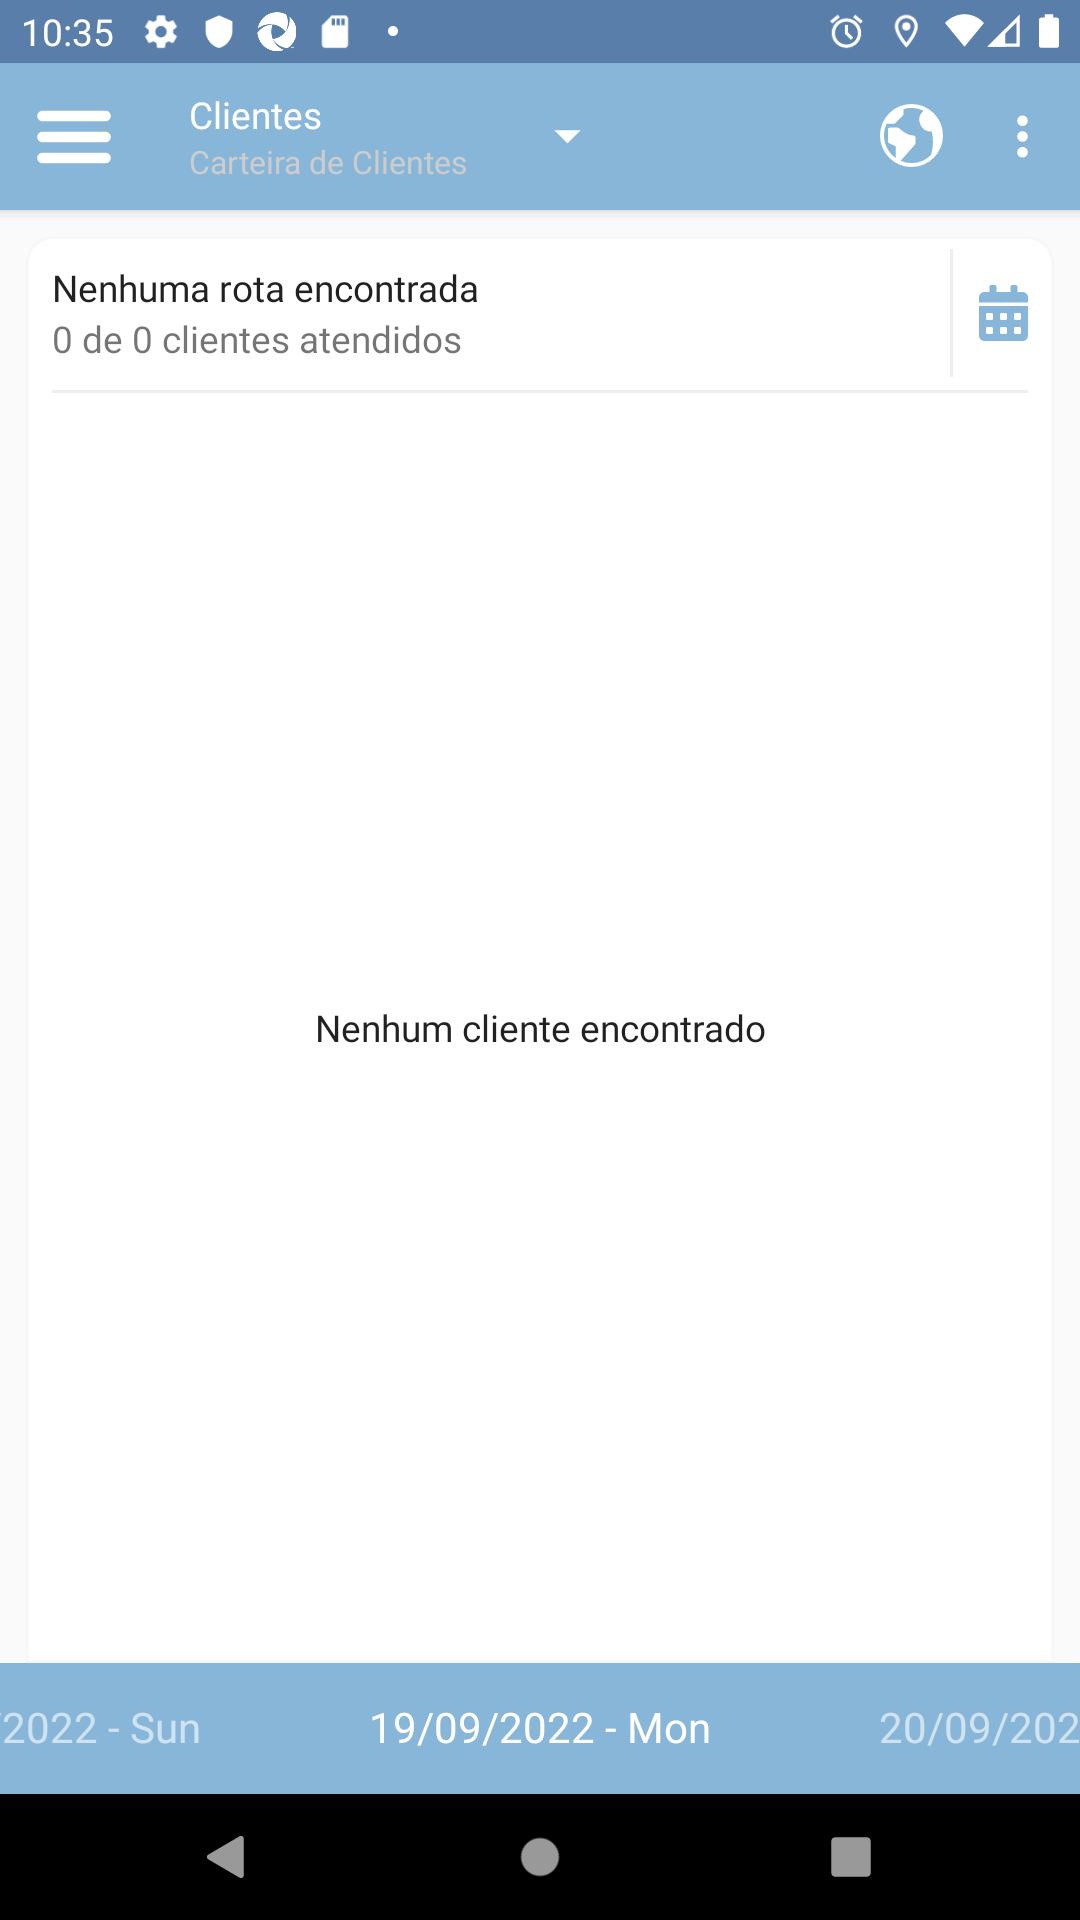
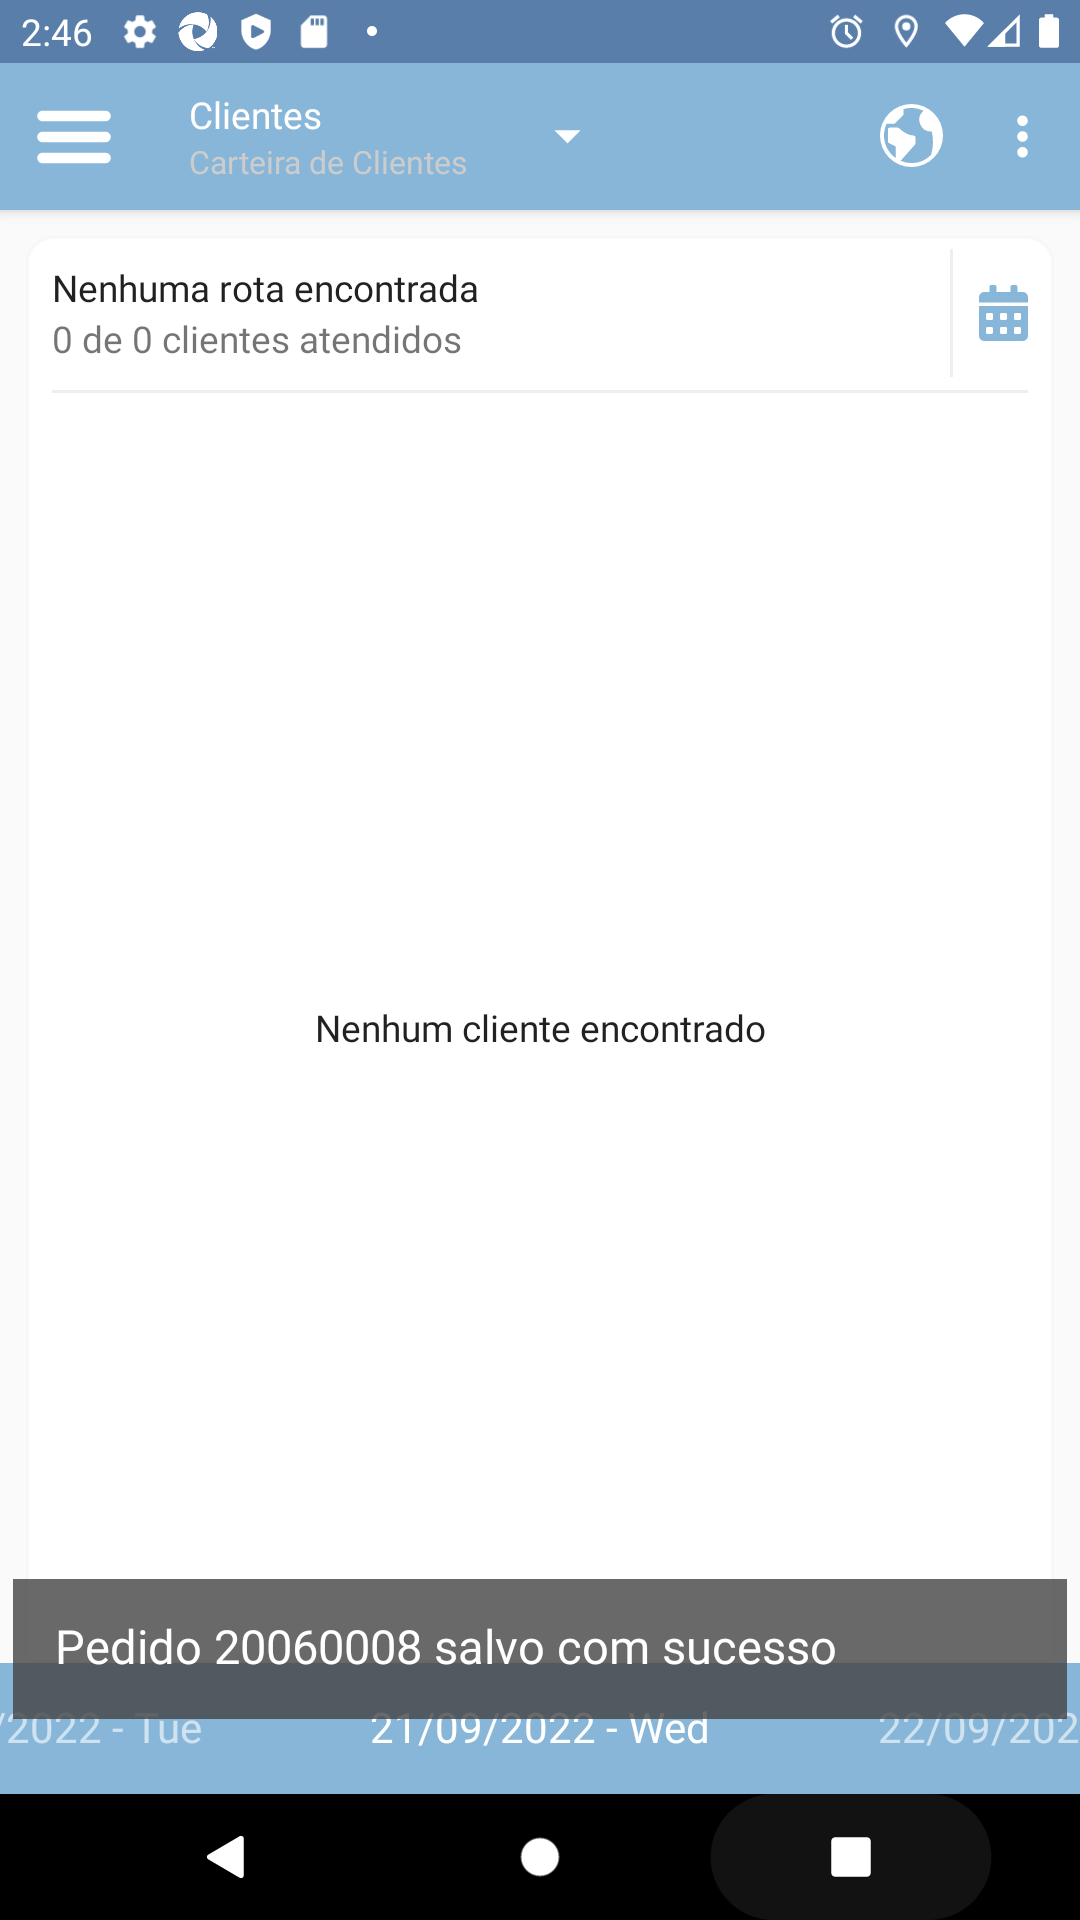
Ajustes no pedido

diff --git a/logs/log.html b/logs/log.html
@@ -1803,25 +1803,25 @@ function stopPropagation(event) {
 window.output = {};
 </script>
 <script type="text/javascript">
-window.output["suite"] = [1,2,3,0,[],[0,0,120248],[],[[4,0,0,[],[0,668,119574,5],[[1,6,7,0,0,0,0,0,[1,671,22410],[[0,8,9,0,10,11,0,0,[1,672,22409],[]]]],[0,12,13,0,0,0,0,0,[1,23131,11065],[[0,14,9,0,15,16,0,0,[1,23132,4183],[]],[0,17,9,0,18,19,0,0,[1,27315,2886],[]],[0,20,9,0,21,22,0,0,[1,30201,2018],[[30209,2,23]]],[0,14,9,0,15,16,0,0,[1,32220,569],[]],[0,14,9,0,15,16,0,0,[1,32790,1406],[]]]],[0,24,13,0,0,0,0,0,[1,34199,32459],[[0,25,9,0,26,27,0,0,[1,34200,10171],[]],[0,28,9,0,29,30,0,0,[1,44372,209],[[44378,2,31]]],[0,32,9,0,33,34,0,0,[1,44582,2601],[]],[0,28,9,0,29,35,0,0,[1,47183,1132],[[47190,2,36]]],[0,25,9,0,26,37,0,0,[1,48315,1285],[]],[0,28,9,0,29,37,0,0,[1,49600,892],[[49607,2,38]]],[0,25,9,0,26,39,0,0,[1,50492,1867],[]],[0,40,9,0,41,42,0,0,[1,52359,3031],[]],[0,32,9,0,33,43,0,0,[1,55390,345],[]],[0,25,9,0,26,44,0,0,[1,55735,10922],[]]]],[0,32,9,0,33,45,0,0,[1,66660,701],[]],[0,17,9,0,18,46,0,0,[1,67368,1242],[]],[0,28,9,0,29,46,0,0,[1,68613,1718],[[68620,2,47]]],[0,32,9,0,33,48,0,0,[1,70334,429],[]],[0,17,9,0,18,49,0,0,[1,70766,1063],[]],[0,28,9,0,29,49,0,0,[1,71839,1731],[[71846,2,50]]],[0,51,9,0,52,53,0,0,[1,73572,1761],[]],[0,17,9,0,18,54,0,0,[1,75341,300],[]],[0,28,9,0,29,55,0,0,[1,75647,399],[[75653,2,56]]],[0,17,9,0,18,57,0,0,[1,76074,3340],[]],[0,28,9,0,29,57,0,0,[1,79415,308],[[79421,2,58]]],[0,17,9,0,18,59,0,0,[1,79724,1100],[]],[0,28,9,0,29,59,0,0,[1,80825,1721],[[80831,2,60]]],[0,17,9,0,18,61,0,0,[1,82547,347],[]],[0,28,9,0,29,61,0,0,[1,82896,726],[[82902,2,62]]],[0,28,9,0,29,63,0,0,[1,83623,708],[[83629,2,64]]],[0,17,9,0,18,65,0,0,[1,84334,2771],[]],[0,28,9,0,29,65,0,0,[1,87106,382],[[87112,2,66]]],[0,17,9,0,18,67,0,0,[1,87489,6466],[]],[0,20,9,0,21,68,0,0,[1,93955,747],[[93963,2,69]]],[0,28,9,0,29,63,0,0,[1,94703,684],[[94709,2,64]]],[0,17,9,0,18,70,0,0,[1,95390,4972],[]],[0,28,9,0,29,71,0,0,[1,100364,524],[[100370,2,72]]],[0,17,9,0,18,73,0,0,[1,100889,933],[]],[0,28,9,0,29,73,0,0,[1,101824,498],[[101829,2,74]]],[0,17,9,0,18,75,0,0,[1,102323,883],[]],[0,28,9,0,29,75,0,0,[1,103208,829],[[103214,2,76]]],[0,17,9,0,18,77,0,0,[1,104038,178],[]],[0,28,9,0,29,77,0,0,[1,104217,254],[[104222,2,78]]],[0,17,9,0,18,79,0,0,[1,104472,1860],[]],[0,28,9,0,29,80,0,0,[1,106334,256],[[106341,2,81]]],[0,82,9,0,83,84,0,0,[0,106593,11662],[[117579,2,85],[0,86,9,0,87,0,0,0,[1,117580,673],[[118252,2,88]]],[118254,5,5]]],[2,89,7,0,0,0,0,0,[1,118257,1981],[[0,86,9,0,87,0,0,0,[1,118258,583],[[118840,2,90]]],[0,91,9,0,92,0,0,0,[1,118841,1396],[]]]]]]],[],[1,0,1,0]];
+window.output["suite"] = [1,2,3,0,[],[1,0,84919],[],[[4,0,0,[],[1,413,84485],[[1,5,6,0,0,0,0,0,[1,414,16516],[[0,7,8,0,9,10,0,0,[1,415,16515],[]]]],[0,11,12,0,0,0,0,0,[1,16932,8479],[[0,13,8,0,14,15,0,0,[1,16932,186],[]],[0,16,8,0,17,18,0,0,[1,17118,5522],[]],[0,19,8,0,20,21,0,0,[1,22641,1077],[[22649,2,22]]],[0,13,8,0,14,15,0,0,[1,23719,579],[]],[0,13,8,0,14,15,0,0,[1,24299,1112],[]]]],[0,23,12,0,0,0,0,0,[1,25413,21278],[[0,24,8,0,25,26,0,0,[1,25414,5702],[]],[0,27,8,0,28,29,0,0,[1,31116,1124],[[31123,2,30]]],[0,31,8,0,32,33,0,0,[1,32241,1231],[]],[0,27,8,0,28,34,0,0,[1,33472,1046],[[33479,2,35]]],[0,24,8,0,25,36,0,0,[1,34519,1159],[]],[0,27,8,0,28,36,0,0,[1,35678,1869],[[35685,2,37]]],[0,24,8,0,25,38,0,0,[1,37547,82],[]],[0,39,8,0,40,41,0,0,[1,37629,2850],[]],[0,31,8,0,32,42,0,0,[1,40480,235],[]],[0,24,8,0,25,43,0,0,[1,40715,5976],[]]]],[0,31,8,0,32,44,0,0,[1,46692,299],[]],[0,16,8,0,17,45,0,0,[1,46994,929],[]],[0,27,8,0,28,45,0,0,[1,47924,1347],[[47930,2,46]]],[0,31,8,0,32,47,0,0,[1,49272,293],[]],[0,16,8,0,17,48,0,0,[1,49569,928],[]],[0,27,8,0,28,48,0,0,[1,50498,1284],[[50502,2,49]]],[0,50,8,0,51,52,0,0,[1,51783,1619],[]],[0,16,8,0,17,53,0,0,[1,53403,217],[]],[0,27,8,0,28,54,0,0,[1,53626,724],[[53634,2,55]]],[0,16,8,0,17,56,0,0,[1,54352,2057],[]],[0,27,8,0,28,56,0,0,[1,56410,500],[[56417,2,57]]],[0,16,8,0,17,58,0,0,[1,56917,921],[]],[0,27,8,0,28,58,0,0,[1,57839,1654],[[57846,2,59]]],[0,16,8,0,17,60,0,0,[1,59494,299],[]],[0,27,8,0,28,60,0,0,[1,59794,667],[[59799,2,61]]],[0,27,8,0,28,62,0,0,[1,60469,799],[[60476,2,63]]],[0,16,8,0,17,64,0,0,[1,61273,1564],[]],[0,27,8,0,28,64,0,0,[1,62838,727],[[62846,2,65]]],[0,16,8,0,17,66,0,0,[1,63566,5287],[]],[0,19,8,0,20,67,0,0,[1,68855,206],[[68861,2,68]]],[0,27,8,0,28,62,0,0,[1,69065,585],[[69071,2,63]]],[0,16,8,0,17,69,0,0,[1,69652,3823],[]],[0,27,8,0,28,70,0,0,[1,73480,626],[[73487,2,71]]],[0,16,8,0,17,72,0,0,[1,74108,815],[]],[0,27,8,0,28,72,0,0,[1,74924,466],[[74929,2,73]]],[0,16,8,0,17,74,0,0,[1,75392,774],[]],[0,27,8,0,28,74,0,0,[1,76168,856],[[76175,2,75]]],[0,16,8,0,17,76,0,0,[1,77026,104],[]],[0,27,8,0,28,76,0,0,[1,77131,215],[[77139,2,77]]],[0,16,8,0,17,78,0,0,[1,77354,1363],[]],[0,27,8,0,28,79,0,0,[1,78720,214],[[78727,2,80]]],[0,81,82,0,83,84,0,0,[1,78937,4015],[[82951,2,85]]],[2,86,6,0,0,0,0,0,[1,82953,1934],[[0,87,8,0,88,0,0,0,[1,82953,679],[[83632,2,89]]],[0,90,8,0,91,0,0,0,[1,83632,1255],[]]]]]]],[],[1,1,0,0]];
 </script>
 <script type="text/javascript">
 window.output["strings"] = [];
 </script>
 <script type="text/javascript">
[2 lines of base64/hex data omitted]
 </script>
 <script type="text/javascript">
-window.output["stats"] = [[{"elapsed":"00:02:00","fail":1,"label":"All Tests","pass":0,"skip":0}],[],[{"elapsed":"00:02:00","fail":1,"id":"s1","label":"Pedido","name":"Pedido","pass":0,"skip":0}]];
+window.output["stats"] = [[{"elapsed":"00:01:24","fail":0,"label":"All Tests","pass":1,"skip":0}],[],[{"elapsed":"00:01:25","fail":0,"id":"s1","label":"Pedido","name":"Pedido","pass":1,"skip":0}]];
 </script>
 <script type="text/javascript">
 window.output["errors"] = [];
 </script>
 <script type="text/javascript">
-window.output["baseMillis"] = 1663641256182;
+window.output["baseMillis"] = 1663728306420;
 </script>
 <script type="text/javascript">
-window.output["generated"] = 120283;
+window.output["generated"] = 84971;
 </script>
 <script type="text/javascript">
 window.output["expand_keywords"] = null;

diff --git a/logs/report.html b/logs/report.html
@@ -1629,22 +1629,22 @@ storage = function () {
 window.output = {};
 </script>
 <script type="text/javascript">
-window.output["suite"] = [1,2,3,0,[],[0,0,120248],[],[[4,0,0,[],[0,668,119574,5],[]]],[],[1,0,1,0]];
+window.output["suite"] = [1,2,3,0,[],[1,0,84919],[],[[4,0,0,[],[1,413,84485],[]]],[],[1,1,0,0]];
 </script>
 <script type="text/javascript">
 window.output["strings"] = [];
 </script>
 <script type="text/javascript">
-window.output["strings"] = window.output["strings"].concat(["*","*Pedido","*C:\\qaninja\\mercanet-mobile\\app\\tests\\pedido.robot","*../tests/pedido.robot","*Deve gravar um pedido","*Text 'Sucesso' did not appear in 10 seconds"]);
+window.output["strings"] = window.output["strings"].concat(["*","*Pedido","*C:\\qaninja\\mercanet-mobile\\app\\tests\\pedido.robot","*../tests/pedido.robot","*Deve gravar um pedido"]);
 </script>
 <script type="text/javascript">
-window.output["stats"] = [[{"elapsed":"00:02:00","fail":1,"label":"All Tests","pass":0,"skip":0}],[],[{"elapsed":"00:02:00","fail":1,"id":"s1","label":"Pedido","name":"Pedido","pass":0,"skip":0}]];
+window.output["stats"] = [[{"elapsed":"00:01:24","fail":0,"label":"All Tests","pass":1,"skip":0}],[],[{"elapsed":"00:01:25","fail":0,"id":"s1","label":"Pedido","name":"Pedido","pass":1,"skip":0}]];
 </script>
 <script type="text/javascript">
-window.output["baseMillis"] = 1663641256182;
+window.output["baseMillis"] = 1663728306420;
 </script>
 <script type="text/javascript">
-window.output["generated"] = 120283;
+window.output["generated"] = 84971;
 </script>
 <script type="text/javascript">
 window.output["expand_keywords"] = null;
